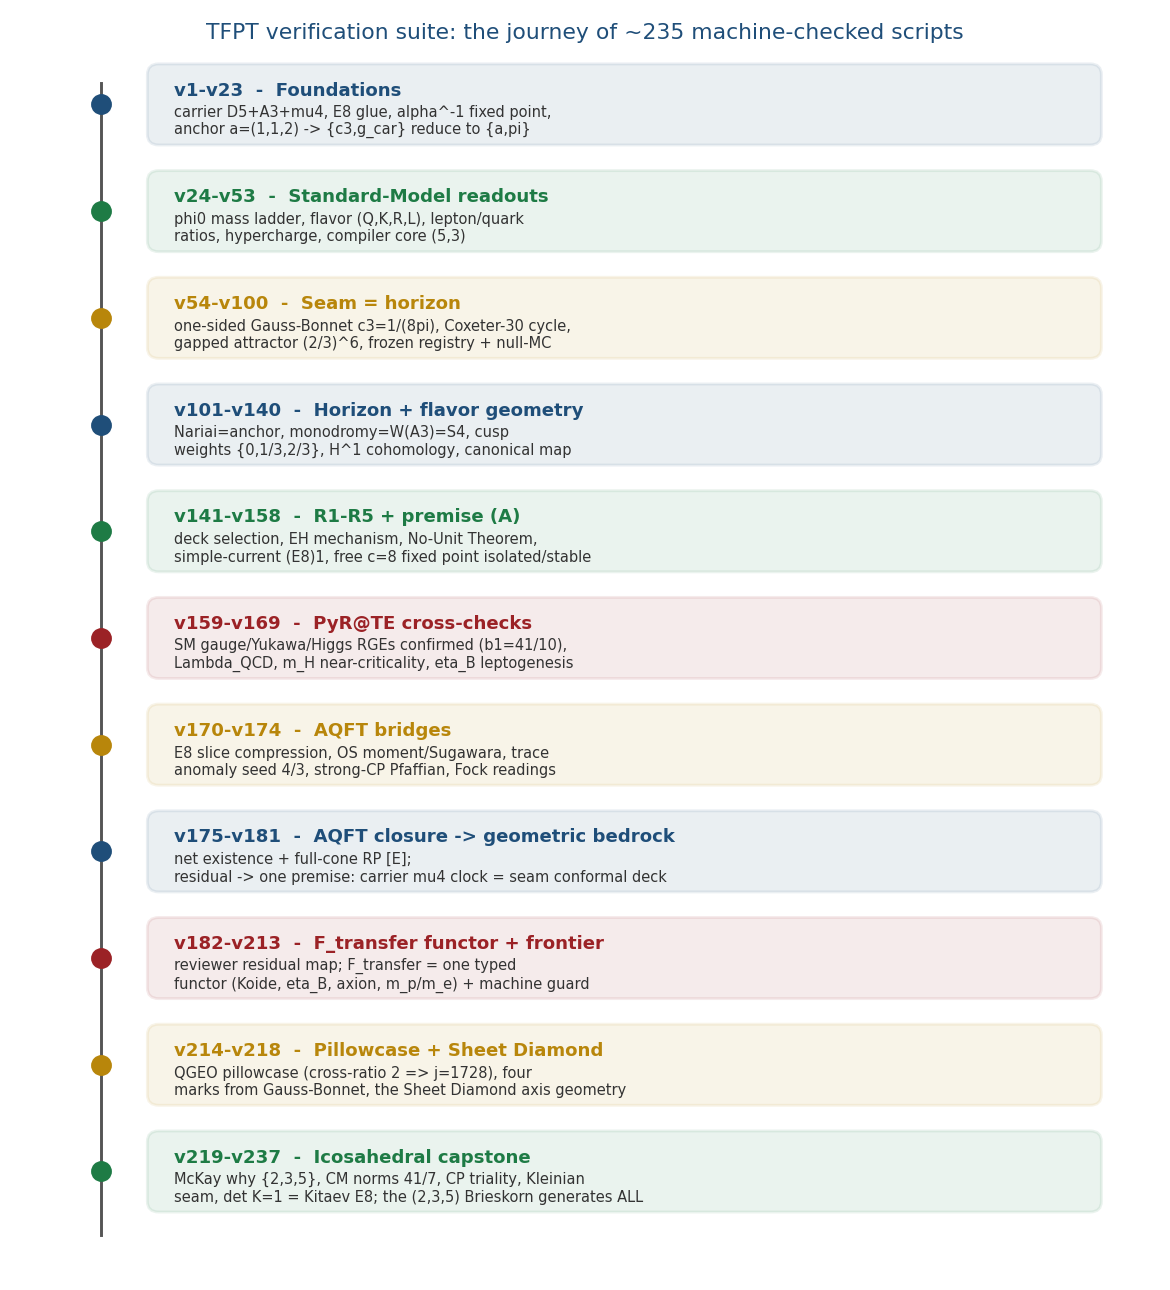
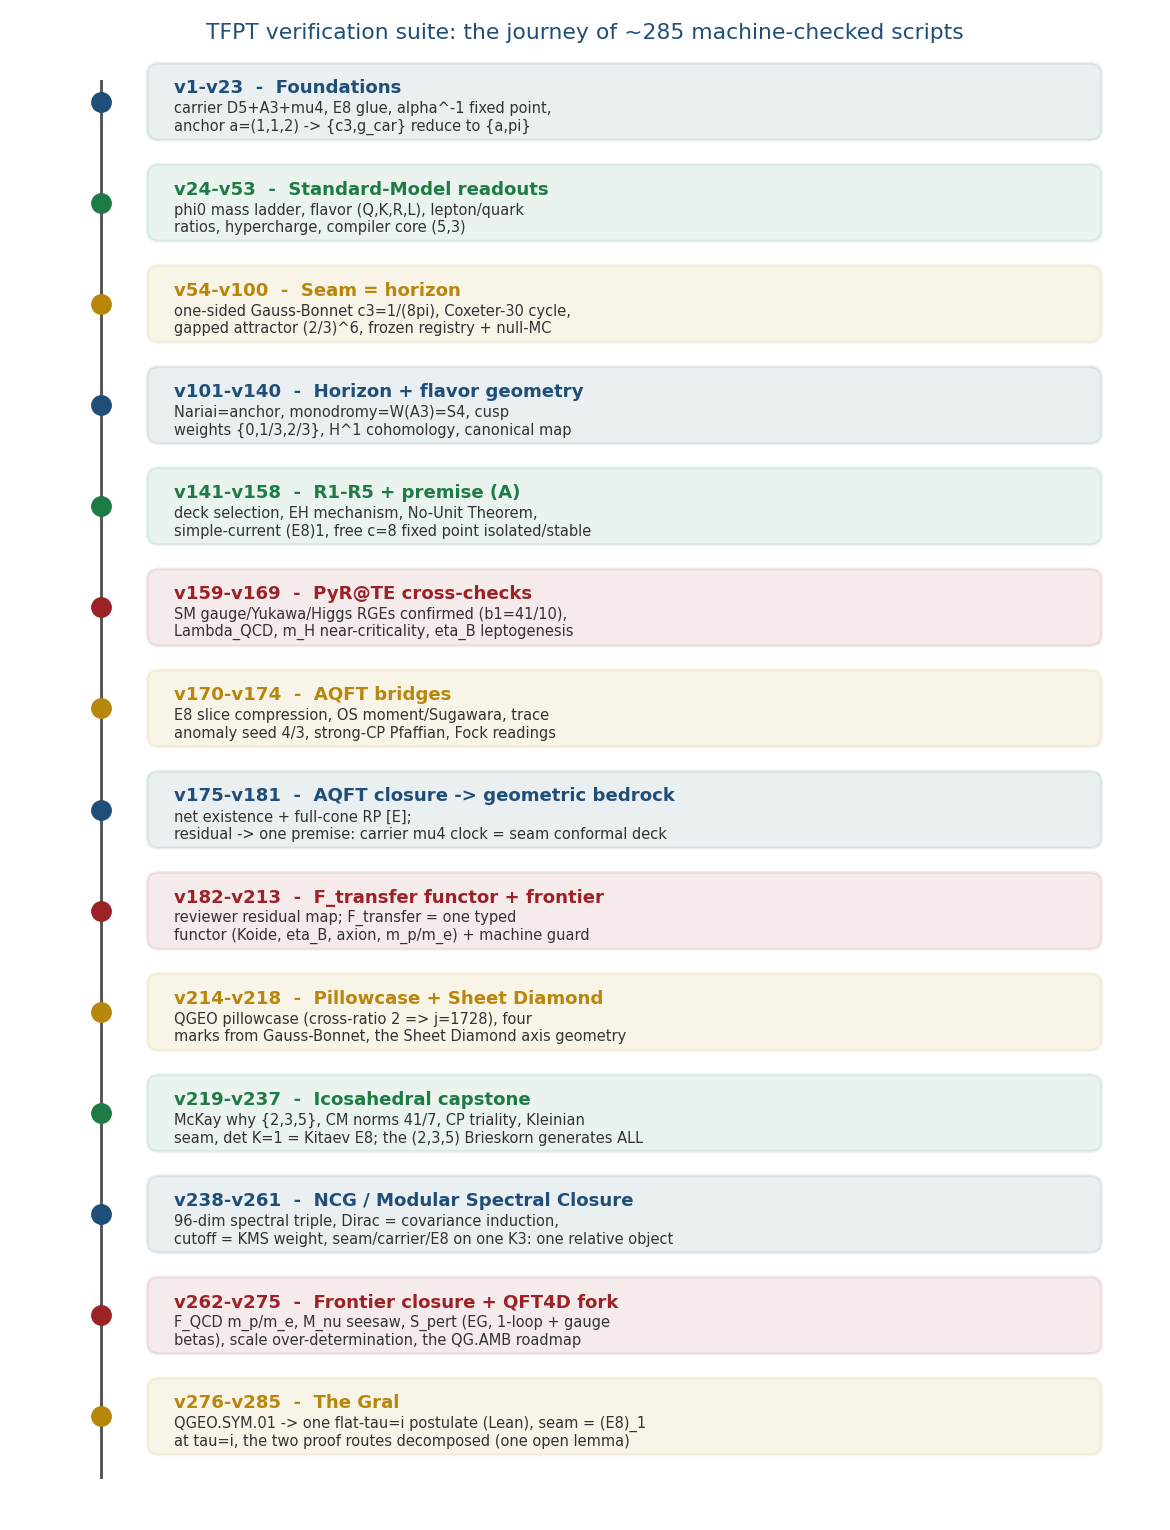
graphics + interactive DAG: bring the diagrams up to v285
The figures and the interactive dependency graph were stale (ended at v237/v246),
predating the NCG/QFT/Gral work. Updated:

- fig_residual_chain: extended past v237 -> v276 (flat all-orders, Lean), v282 (two
  faces one object), v284/v285 (two routes, one open lemma); the bedrock is now the
  canonical equivalence "raw seam KMS/DtN <-> holomorphic (E8)_1 at tau=i".
- fig_script_timeline: added v238-v261 (Modular Spectral Closure), v262-v275
  (frontier closure + QFT4D fork), v276-v285 (the Gral); ~235 -> ~285 scripts.
- fig_qft_skeleton: extended v238-v246 -> v238-v285 (MSC, S_pert EG + gauge betas,
  the frozen 4D fork); the stale "RG tension" OPEN item replaced by the two genuine
  open items (QGEO.SYM.01 = seam=(E8)_1 at tau=i; QG.AMB.01 Stelle ghost).
- VerificationDag.tsx: new "boundary QFT + seam bedrock" node (E8 -> qft) carrying
  the v258-v285 layer and 17 runnable scripts; cosmo node bedrock sentence sharpened.

Figures regenerated + embedded (10 docs recompile), AUDIT OK (283), npm green,
manifests refreshed.

diff --git a/website/lib/release.ts b/website/lib/release.ts
@@ -34,81 +34,81 @@ export const RELEASE_ASSETS: Record<string, ReleaseAsset> = {
   "/papers/introduction.pdf": {
     href: "/papers/introduction.pdf",
     ...COMMON,
-    bytes: 1616111,
+    bytes: 1618808,
     sha256:
[2 lines of base64/hex data omitted]
     changelog:
       "Compiler-closure reading guide: two axioms, the dependency DAG, the predictions and the proof ledger.",
   },
   "/papers/tfpt_1_architecture_e8.pdf": {
     href: "/papers/tfpt_1_architecture_e8.pdf",
     ...COMMON,
-    bytes: 1069531,
+    bytes: 1069557,
     sha256:
[2 lines of base64/hex data omitted]
     changelog:
       "Architecture: the two axioms, the D₅ × A₃ → E₈ construction, and the EM fixed point with existence + uniqueness.",
   },
   "/papers/tfpt_2_standard_model.pdf": {
     href: "/papers/tfpt_2_standard_model.pdf",
     ...COMMON,
-    bytes: 1152957,
+    bytes: 1152973,
     sha256:
[2 lines of base64/hex data omitted]
     changelog:
       "The Standard Model in one φ₀-ladder, the flavor residue matrix, and the derived solar angle θ₁₂.",
   },
   "/papers/tfpt_3_e8_audit_bootstrap.pdf": {
     href: "/papers/tfpt_3_e8_audit_bootstrap.pdf",
     ...COMMON,
-    bytes: 898321,
+    bytes: 898333,
     sha256:
[2 lines of base64/hex data omitted]
     changelog:
       "The seven E₈ slices as an audit raster, the cascade bridge, and the Möbius bootstrap.",
   },
   "/papers/tfpt_4_frontier.pdf": {
     href: "/papers/tfpt_4_frontier.pdf",
     ...COMMON,
-    bytes: 763909,
+    bytes: 763908,
     sha256:
[2 lines of base64/hex data omitted]
     changelog:
       "Honest status of η_B, m_p/m_e, Koide, dark matter and full quantum gravity — not forced onto the ladder.",
   },
   "/papers/tfpt_horizon_readouts.pdf": {
     href: "/papers/tfpt_horizon_readouts.pdf",
     ...COMMON,
-    bytes: 877835,
+    bytes: 877850,
     sha256:
[2 lines of base64/hex data omitted]
     changelog:
       "Appendix H — the horizon unit system: c₃ = 1/(8π) as the universal horizon thermal code.",
   },
   "/papers/origin_theory.pdf": {
     href: "/papers/origin_theory.pdf",
     ...COMMON,
-    bytes: 916008,
+    bytes: 916033,
     sha256:
[2 lines of base64/hex data omitted]
     changelog:
       "Origin Theory: the (5,3) skeleton, the triply-forced 8, the order-30 Coxeter cycle, and the gapped unique attractor.",
   },
   "/papers/tfpt_research_contracts.pdf": {
     href: "/papers/tfpt_research_contracts.pdf",
     ...COMMON,
-    bytes: 1227379,
+    bytes: 1232391,
     sha256:
[2 lines of base64/hex data omitted]
     changelog:
       "Research contracts for the remaining interfaces: v_geo (scale anchor), G_net (metric inclusion), F_transfer (downstream transport).",
   },
   "/papers/tfpt_5_redteam.pdf": {
     href: "/papers/tfpt_5_redteam.pdf",
     ...COMMON,
-    bytes: 705262,
+    bytes: 705263,
     sha256:
[2 lines of base64/hex data omitted]
     changelog:
       "The adversarial audit: Targets A–E, what survives, what each target reduces to, and the kill tests.",
   },
@@ -117,7 +117,7 @@ export const RELEASE_ASSETS: Record<string, ReleaseAsset> = {
     ...COMMON,
     bytes: 729277,
     sha256:
[2 lines of base64/hex data omitted]
     changelog:
       "The canonical dated changelog of every change to the theory, the suite, the papers and the website.",
   },

diff --git a/website/components/VerificationDag.tsx b/website/components/VerificationDag.tsx
@@ -369,7 +369,7 @@ const NODES: DagNode[] = [
     marker: "[C] conditional",
     title: "Gravity & cosmology — the geometry channel",
     summary:
-      "The spectral action gives R + R²; the scalaron mass is M = c₃^(7/2) M̄ = 3.06×10¹³ GeV (exponent 7 = Ω_adm − 10 b₁). From the same attractor n_s = 1 − 2/N★, r = 12/N★² on the frozen band N★ ∈ [50,60]; the reheating chain (v86) sharpens this conditionally to N★ = 51.4 ⇒ n_s = 0.9611, r = 0.0045 (recorded with its A_s tension). Λ ∼ e⁻²ᵅ⁻¹, H₀ ∼ √Λ. The metric sector reduces to the rigorously-constructed (E₈)₁ lattice net (c = 8 = 5 + 3); the whole closing step is now ONE falsifiable physical condition — the seam bulk is short-range-entangled (det K = 1), the Kitaev E₈ phase (v234/v235/v237). Classical fingerprint (v101): the maximal de Sitter (Nariai) black hole carries the traceless anchor (1,1,−2) and the Koide-2/3 entropy bound, and evaporates away from the anchor — the same orientation as flavor relaxation. Every scale is a ratio to one v_geo.",
+      "The spectral action gives R + R²; the scalaron mass is M = c₃^(7/2) M̄ = 3.06×10¹³ GeV (exponent 7 = Ω_adm − 10 b₁). From the same attractor n_s = 1 − 2/N★, r = 12/N★² on the frozen band N★ ∈ [50,60]; the reheating chain (v86) sharpens this conditionally to N★ = 51.4 ⇒ n_s = 0.9611, r = 0.0045 (recorded with its A_s tension). Λ ∼ e⁻²ᵅ⁻¹, H₀ ∼ √Λ. The metric sector reduces to the rigorously-constructed (E₈)₁ lattice net (c = 8 = 5 + 3); its closing condition is the single seam premise — now sharpened to 'the raw seam is (E₈)₁ at τ=i' (det K = 1, the Kitaev E₈ phase), see the boundary-QFT node (v276/v282/v284/v285). Classical fingerprint (v101): the maximal de Sitter (Nariai) black hole carries the traceless anchor (1,1,−2) and the Koide-2/3 entropy bound, and evaporates away from the anchor — the same orientation as flavor relaxation. Every scale is a ratio to one v_geo.",
     inputs: ["c₃ (P1)", "E₈"],
     outputs: ["Λ, A_s, n_s, r, scalaron M"],
     failure: "Ambient reflection-positivity fails.",
@@ -395,6 +395,39 @@ const NODES: DagNode[] = [
     ],
   },
 
+  {
+    id: "qft",
+    label: "boundary QFT + seam bedrock",
+    x: 48,
+    y: 84,
+    tone: "conditional",
+    marker: "[E]/[C] modulo one premise",
+    title: "Boundary QFT & the seam bedrock",
+    summary:
+      "On top of E₈ the boundary QFT is one relative object — the Modular Spectral Closure (v258–v261): the finite Dirac is the covariance induction of the seam KMS state, the spectral-action cutoff IS that KMS weight (f₂/f₀ = 1), and the seam, carrier-16 and E₈ live on one Kummer/K3. The perturbative 4D S-matrix S_pert is Epstein–Glaser-constructible (v269) with a one-loop quartic (v271) and the SM gauge β-coefficients (41/10, −19/6, −7; v273), LSZ-bridged to the physical S_phys with one-loop unitarity for matter+gauge (v278) — the R²/Weyl² gravity sector carries the Stelle ghost (rt_F), the nonperturbative QG.AMB.01 frontier. The whole layer closes modulo ONE premise, now sharpened to 'the raw seam is (E₈)₁ at τ=i' (χ_E8(i)=12, v282): the flat τ=i geometry (QGEO.SYM.01) and the holomorphy (det K=1) are two faces of one object, attacked from two decomposed routes (RP-state uniqueness 5/6 + Troyanov, v284; seam-net condensation 3/4, v285) whose open lemmas coincide — the single open statement is the canonical equivalence between the raw seam KMS/DtN state and the holomorphic (E₈)₁ net at τ=i.",
+    inputs: ["E₈", "seam KMS / DtN state"],
+    outputs: ["one relative object; S_pert (1-loop unitary, matter+gauge)"],
+    failure: "the seam net is not holomorphic (det K ≠ 1) / not the flat τ=i state.",
+    scripts: [
+      "v258_dirac_covariance_induction.py",
+      "v259_modular_cutoff_kappa.py",
+      "v260_k3_kummer_unification.py",
+      "v261_modular_spectral_closure.py",
+      "v265_qft4d_fork_freeze.py",
+      "v269_spert_paqft_skeleton.py",
+      "v271_eg_oneloop_quartic.py",
+      "v273_eg_gauge_running.py",
+      "v278_lsz_bridge_unitarity.py",
+      "v276_qgeo_flat_closes_commutator.py",
+      "v277_seam_calderon_e8_match.py",
+      "v279_qgeo_obligation_lemma.py",
+      "v280_pillowcase_steklov.py",
+      "v281_holomorphy_modular_data.py",
+      "v282_e8_tau_i_unification.py",
+      "v284_route_i_rp_uniqueness.py",
+      "v285_route_ii_seam_condensation.py",
+    ],
+  },
   {
     id: "boot",
     label: "self-consistency",
@@ -440,6 +473,7 @@ const EDGES: DagEdge[] = [
   { from: "RL", to: "masses", kind: "normal" },
   { from: "RL", to: "theta12", kind: "normal" },
   { from: "E8", to: "cosmo", kind: "normal" },
+  { from: "E8", to: "qft", kind: "normal" },
   { from: "P1", to: "alpha", kind: "dressing" },
   { from: "P1", to: "cosmo", kind: "dressing" },
   { from: "E8", to: "boot", kind: "bootstrap" },

diff --git a/website/lib/version.ts b/website/lib/version.ts
@@ -1,5 +1,5 @@
 // GENERATED by `bash build.sh website` -- do not edit by hand.
 // Single source: tex-artefacts/version.tex (\TFPTversion) + git commit count.
 export const SITE_VERSION = "5.2";
-export const SITE_REV = "201";
+export const SITE_REV = "202";
 export const SITE_DATE = "2026-06-18";

diff --git a/verification/make_figures.py b/verification/make_figures.py
@@ -737,42 +737,42 @@ def fig_residual_chain():
     steps = [
         ("start", "Naive residual", "''build a quantum-gravity measure''", C["gray"]),
         ("v175", "Net existence + full-cone RP", "discharged to [E] (CAR functor)", C["green"]),
-        ("v176", "One central theorem", "Seam Collar Realisation Thm", C["green"]),
-        ("v177-v178", "MARKS + KERNEL, cores [E]", "Mobius + Schur (spectrum=operator)", C["green"]),
-        ("v179-v181", "One geometric premise", "QGEO.SYM.01: carrier mu4 clock = seam conformal deck", C["green"]),
+        ("v176-v181", "One geometric premise", "QGEO.SYM.01: carrier mu4 clock = seam conformal deck", C["green"]),
         ("v194-v201", "Non-circular form", "state-invariance w o rho = w; DtN mark-local (Z4)", C["green"]),
-        ("v234", "ONE condition, three faces", "no abelian sector: holomorphy = homology-sphere = 1 irrep -> E8", C["green"]),
-        ("v235", "Chern-Simons form", "holomorphic <=> det K = 1 (the Kitaev E8 condensation tower)", C["green"]),
-        ("v237", "PHYSICAL BEDROCK", "is the seam short-range-entangled? det K=1 = the Kitaev E8 phase", C["gold"]),
+        ("v234-v235", "ONE condition: holomorphy", "no abelian sector <=> det K=1 (the Kitaev E8 tower)", C["green"]),
+        ("v276", "Flat all-orders closure (Lean)", "flat tau=i => [rho,H]=0 to ALL orders (FORM.QGEO.03)", C["green"]),
+        ("v282", "Two faces, ONE object", "chi_E8(i)=12: flat tau=i geometry = (E8)_1 holomorphy", C["green"]),
+        ("v284-v285", "Two routes, one open lemma", "RP-uniqueness 5/6 + condensation 3/4; open lemmas coincide", C["green"]),
+        ("BEDROCK", "ONE physical statement", "canonical equivalence: raw seam KMS/DtN <-> holomorphic (E8)_1 at tau=i", C["gold"]),
     ]
     n = len(steps)
-    fig, ax = plt.subplots(figsize=(7.8, 6.4))
-    ax.set_xlim(0, 10); ax.set_ylim(0, n + 0.5); ax.axis("off")
+    fig, ax = plt.subplots(figsize=(8.2, 6.6))
+    ax.set_xlim(0, 10.4); ax.set_ylim(0, n + 0.5); ax.axis("off")
     ax.set_title("Structural-residual reduction chain: the whole ''quantum gravity'' question\n"
-                 "collapses to one falsifiable physical statement -- is the seam SRE?",
+                 "collapses to one falsifiable physical statement -- is the seam (E8)_1 at tau=i?",
                  fontsize=10.5, color=C["blue"])
     bw, bh = 8.4, 0.62
     centers = []
     for i, (tag, head, sub, col) in enumerate(steps):
         y = n - i - 0.1
-        x = 0.5 + i * 0.12                      # slight diagonal descent
+        x = 0.5 + i * 0.10                      # slight diagonal descent
         box = FancyBboxPatch((x, y - bh / 2), bw, bh,
                              boxstyle="round,pad=0.04,rounding_size=0.12",
                              linewidth=1.6, edgecolor=col,
-                             facecolor=col, alpha=0.10 if tag != "v237" else 0.20)
+                             facecolor=col, alpha=0.10 if tag != "BEDROCK" else 0.20)
         ax.add_patch(box)
-        ax.text(x + 0.18, y, tag, fontsize=9, fontweight="bold", va="center", color=col)
-        ax.text(x + 1.35, y + 0.10, head, fontsize=8.6, va="center", fontweight="bold",
+        ax.text(x + 0.18, y, tag, fontsize=8.6, fontweight="bold", va="center", color=col)
+        ax.text(x + 1.45, y + 0.10, head, fontsize=8.4, va="center", fontweight="bold",
                 color="#222")
-        ax.text(x + 1.35, y - 0.16, sub, fontsize=7.4, va="center", color=C["gray"])
+        ax.text(x + 1.45, y - 0.16, sub, fontsize=6.9, va="center", color=C["gray"])
         centers.append((x + bw / 2, y))
     for i in range(n - 1):
         x0, y0 = centers[i]; x1, y1 = centers[i + 1]
         ax.add_patch(FancyArrowPatch((x0 - 2.4, y0 - bh / 2), (x1 - 2.4, y1 + bh / 2),
                                      arrowstyle="-|>", mutation_scale=11,
                                      color=C["gray"], lw=1.0))
-    ax.text(5.0, 0.10, "Everything above is a theorem or an established citation; the bedrock, once a definition\n"
-            "(QGEO.SYM.01), is now a falsifiable physical question: is the seam SRE (det K = 1)?",
+    ax.text(5.2, 0.10, "Everything above is a theorem, a Lean proof or an established citation; the bedrock, once a\n"
+            "definition (QGEO.SYM.01), is now one falsifiable physical question: is the raw seam (E8)_1 at tau=i?",
             fontsize=6.8, ha="center", va="bottom", style="italic", color=C["gray"])
     fig.tight_layout()
     fig.savefig(os.path.join(OUT, "residual_chain.pdf"))
@@ -808,10 +808,16 @@ def fig_script_timeline():
          "marks from Gauss-Bonnet, the Sheet Diamond axis geometry", C["gold"]),
         ("v219-v237", "Icosahedral capstone", "McKay why {2,3,5}, CM norms 41/7, CP triality, Kleinian\n"
          "seam, det K=1 = Kitaev E8; the (2,3,5) Brieskorn generates ALL", C["green"]),
+        ("v238-v261", "NCG / Modular Spectral Closure", "96-dim spectral triple, Dirac = covariance induction,\n"
+         "cutoff = KMS weight, seam/carrier/E8 on one K3: one relative object", C["blue"]),
+        ("v262-v275", "Frontier closure + QFT4D fork", "F_QCD m_p/m_e, M_nu seesaw, S_pert (EG, 1-loop + gauge\n"
+         "betas), scale over-determination, the QG.AMB roadmap", C["red"]),
+        ("v276-v285", "The Gral", "QGEO.SYM.01 -> one flat-tau=i postulate (Lean), seam = (E8)_1\n"
+         "at tau=i, the two proof routes decomposed (one open lemma)", C["gold"]),
     ]
-    fig, ax = plt.subplots(figsize=(7.8, 8.6))
+    fig, ax = plt.subplots(figsize=(7.8, 10.2))
     ax.set_xlim(0, 10); ax.set_ylim(0, len(phases) + 0.4); ax.axis("off")
-    ax.set_title("TFPT verification suite: the journey of ~235 machine-checked scripts",
+    ax.set_title("TFPT verification suite: the journey of ~285 machine-checked scripts",
                  fontsize=10.5, color=C["blue"])
     ax.plot([0.7, 0.7], [0.3, len(phases) + 0.1], color=C["gray"], lw=1.4, zorder=0)
     for i, (rng, head, sub, col) in enumerate(phases):
@@ -838,21 +844,21 @@ def fig_qft_skeleton():
 
     steps = [
         ("v156/v175", "Seam chiral net $(E_8)_1$, $c=8$", "a 2d chiral QFT exists [E/F]", C["green"]),
-        ("v238", "Modular flow = TIME (reversible)", "$\\sigma_t=e^{i t\\Lambda}$; $\\mu_4$ conserved $\\Leftrightarrow$ v198", C["green"]),
-        ("v238", "Recovery $L$ = ARROW of time", "gap $=6\\ln(3/2)=$ mass gap $=-\\ln(2/3)^6$", C["green"]),
-        ("v239", "KMS thermal time", "$\\beta=1$; $T_H=c_3/M$; $2\\pi=1/(4c_3)$", C["green"]),
+        ("v238/v239", "Modular flow = KMS time", "$\\sigma_t=e^{it\\Lambda}$, $\\beta=1$; gap $=6\\ln(3/2)$", C["green"]),
         ("v240", "GNS/OS: Hilbert space + $H\\geq 0$", "$H_{OS}=-L\\geq 0$, gap $=$ mass gap", C["green"]),
-        ("v241/v242", "Particles = DHR sectors", "$\\mathbb{Z}_4\\times\\mathbb{Z}_4$ (16); fusion, spin, $c=8$", C["green"]),
-        ("v243", "S-matrix = braiding", "factorised (Yang-Baxter), crossing; trivial on $E_8$", C["green"]),
-        ("v244/v245", "Spectral action $\\to$ 4d", "$\\mathbf{16}=$ one anomaly-free gen.; $\\sin^2\\theta_W=3/8$", C["gold"]),
-        ("OPEN", "QGEO.SYM.01 (postulate)", "independent of $\\{c_3,g_{car}\\}$ (v201/v210 counter-geoms)", C["red"]),
-        ("OPEN", "RG tension (v246)", "SM content (no new state) misses 1+2-loop; tension like NCG-SM", C["red"]),
+        ("v241-v243", "Particles = DHR sectors; S-mat", "$\\mathbb{Z}_4\\times\\mathbb{Z}_4$; braiding (Yang-Baxter)", C["green"]),
+        ("v244-v257", "Spectral triple $\\to$ 4d", "$\\mathbf{16}=$ one anomaly-free gen.; $\\sin^2\\theta_W=3/8$", C["green"]),
+        ("v258-v261", "Modular Spectral Closure", "one relative object: $D_F=$cov.\\ induction, cutoff$=$KMS, K3", C["green"]),
+        ("v269-v278", "Perturbative $S_{\\mathrm{pert}}$ (EG)", "1-loop quartic + gauge $\\beta=(41/10,-19/6,-7)$; LSZ unitary", C["green"]),
+        ("v265", "4D fork (frozen)", "boundary-only default; PS UV branch; SM-only GUT killed", C["gold"]),
+        ("OPEN", "QGEO.SYM.01 = seam$=(E_8)_1$ at $\\tau{=}i$", "the one premise (v282); two routes 8/10 lemmas done (v284/v285)", C["red"]),
+        ("OPEN", "QG.AMB.01 nonperturbative", "the $R^2/$Weyl$^2$ gravity $S_{\\mathrm{pert}}$ carries the Stelle ghost (rt_F)", C["red"]),
     ]
     n = len(steps)
-    fig, ax = plt.subplots(figsize=(7.8, 6.8))
+    fig, ax = plt.subplots(figsize=(8.0, 6.8))
     ax.set_xlim(0, 10); ax.set_ylim(0, n + 0.5); ax.axis("off")
-    ax.set_title("The emergent-QFT skeleton on the seam (v238-v246):\n"
-                 "each step machine-checked; the two open items in red",
+    ax.set_title("The emergent-QFT skeleton on the seam (v238-v285):\n"
+                 "each step machine-checked; the two genuinely open items in red",
                  fontsize=10.5, color=C["blue"])
     bw, bh = 8.6, 0.60
     centers = []